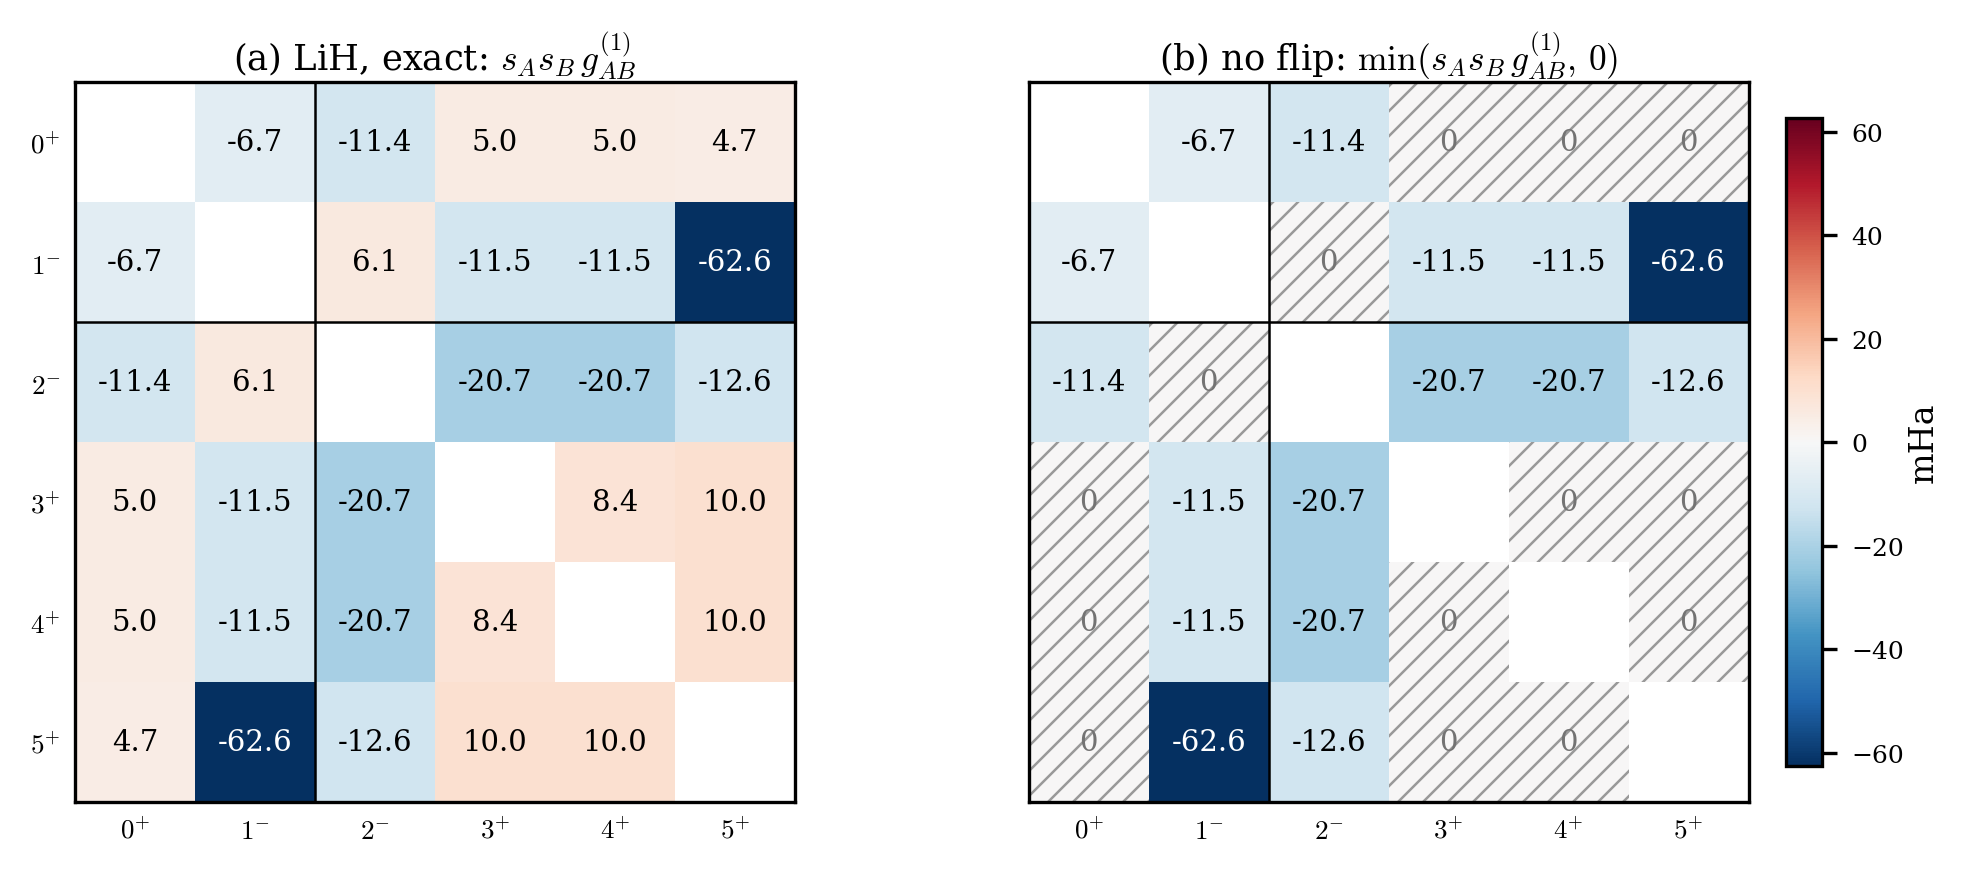
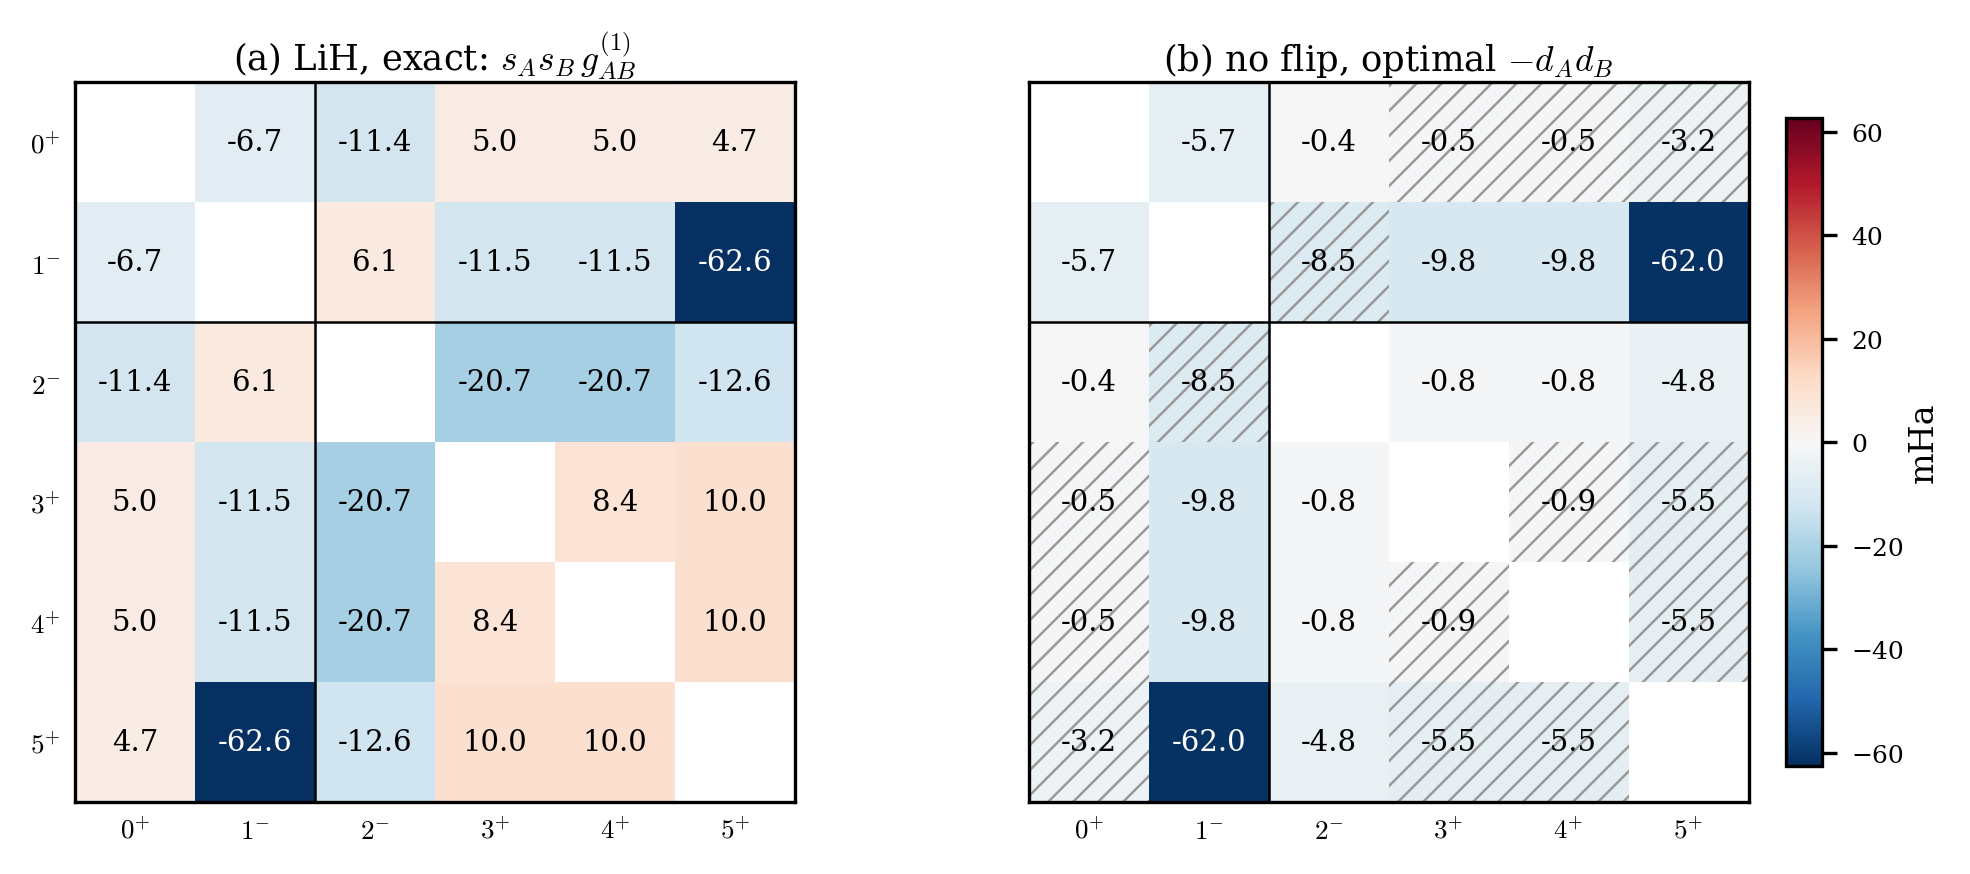
LiH no-flip couplings: panel (b) is the gadget's optimal -d_A d_B
The no-flip PCE gadget realises -d_A d_B (c_AB = 0), with d the rank-1 fit
of min(s_A s_B g1_AB, 0) used by lih_gadget_routes.py / MolecularDOCI.ipynb
(fit_drive, use_c=False, seed 42, |d_A| <= D_MAX). Checked against the
effective hopping of the simulated gadget (agreement 1e-5 Ha at gamma = 100).
d rescaled by 1/sqrt 2 so that -d_A d_B is in the g1 = K/2 convention of (a).

diff --git a/plot_lih_noflip_couplings.py b/plot_lih_noflip_couplings.py
@@ -3,14 +3,17 @@ Fig. (LiH, no flip): hopping g1 of H_DOCI, exact vs the effective one of the
 stoquastic-truncation ("no flip") route of lih_gadget_routes.py.
 
   (a) exact      g~1_AB = s_A s_B g1_AB   in the max-cut gauge s (best_sign_gauge)
-  (b) no flip    min(g~1_AB, 0): the frustrated edges that stay positive are dropped
+  (b) no flip    -d_A d_B, the hopping the gadget realises (PCE, c_AB = 0): d is
+                 the optimal rank-1 fit of the truncated target min(g~1_AB, 0)
+                 (frustrated, still positive edges dropped; hatched), with the
+                 same fit as the route (fit_drive, |d_A| <= D_MAX, seed 42)
 
 The gauge is a change of orbital phases (same spectrum), so (a) is the exact
-hopping in the basis the gadget sees; (b) differs from it only on the dropped
-edges (hatched). Same convention as plot_lih_couplings.py: g1 = K/2 = 1/2 (ab|ab)
-(shown in mHa)
-[src/molecular_doci.py stores K], canonical RHF orbitals 0, 1, ... by increasing
-energy; tick labels carry the gauge sign s_A. One colour scale for both panels.
+hopping in the basis the gadget sees. Same convention as plot_lih_couplings.py:
+g1 = K/2 = 1/2 (ab|ab) in mHa [src/molecular_doci.py stores K, and the fit there
+gives -d d^T ~ K; here d is rescaled by 1/sqrt 2 so that -d_A d_B ~ K/2].
+Canonical RHF orbitals 0, 1, ... by increasing energy; tick labels carry the
+gauge sign s_A. One colour scale for both panels.
 
 Usage:
     python plot_lih_noflip_couplings.py [--basis sto-6g] [--R 1.5949] [--width 7.0]
@@ -25,6 +28,8 @@ import matplotlib.pyplot as plt  # noqa: E402
 import numpy as np  # noqa: E402
 from matplotlib.colors import Normalize  # noqa: E402
 
+from lih_gadget_routes import D_MAX  # noqa: E402
+from src.gadget import fit_drive  # noqa: E402
 from src.molecular_doci import best_sign_gauge, doci_couplings, lih  # noqa: E402
 
 p = argparse.ArgumentParser()
@@ -52,11 +57,14 @@ plt.rcParams.update(
 c = doci_couplings(lih(args.R), basis=args.basis, max_pairs=10)  # no frozen core
 n = c["n_orb"]
 s, gg, frustration = best_sign_gauge(c["g1"])
+g_trunc = np.minimum(gg, 0.0)  # stoquastic truncation (project convention, = K)
+drive = fit_drive(g_trunc, n_restarts=50, use_c=False, seed=42, d_max=D_MAX)
+d = drive.d / np.sqrt(2)  # paper convention: -d_A d_B ~ K/2
 g_exact = 0.5e3 * gg  # paper convention g1 = K/2, in mHa
-g_noflip = np.minimum(g_exact, 0.0)
+g_gadget = -1e3 * np.outer(d, d)  # c_AB = 0: alpha = 1
 dropped = g_exact > 0
 iu = np.triu_indices(n, 1)
-for M in (g_exact, g_noflip):
+for M in (g_exact, g_gadget):
     np.fill_diagonal(M, np.nan)
 
 n_occ = int(np.sum(c["mf"].mo_occ > 0)) - c["n_core"]
@@ -64,6 +72,10 @@ labels = [rf"${a}^{{{'+' if s[a] > 0 else '-'}}}$" for a in range(n)]
 print(f"LiH {args.basis}, R={args.R} A: {n} orbitals, gauge s = {s}")
 print(f"dropped {int(dropped[iu].sum())} of {len(iu[0])} edges, "
       f"frustration (dropped |g| weight) = {frustration:.3f}")
+res = g_gadget[iu] - np.minimum(g_exact, 0)[iu]
+print("d_A (paper convention) =", np.round(d, 4))
+print(f"rank-1 fit vs truncated target: max |diff| = {np.abs(res).max():.2f} mHa, "
+      f"rel. Frobenius = {np.linalg.norm(res) / np.linalg.norm(np.minimum(g_exact, 0)[iu]):.3f}")
 
 # ------------------------------------------------------------------ plot
 vmax = np.nanmax(np.abs(g_exact))
@@ -73,7 +85,7 @@ fig, axes = plt.subplots(1, 2, figsize=(args.width, 0.4 * args.width),
                          constrained_layout=True)
 panels = (
     (g_exact, r"(a) LiH, exact: $s_As_B\,g^{(1)}_{AB}$"),
-    (g_noflip, r"(b) no flip: $\min(s_As_B\,g^{(1)}_{AB},\,0)$"),
+    (g_gadget, r"(b) no flip, optimal $-d_A d_B$"),
 )
 for k, (M, title) in enumerate(panels):
     ax = axes[k]
@@ -84,13 +96,11 @@ for k, (M, title) in enumerate(panels):
                 continue
             r, g, b, _ = cmap(norm(M[i, j]))
             col = "k" if 0.299 * r + 0.587 * g + 0.114 * b > 0.5 else "w"
-            if k == 1 and dropped[i, j]:  # dropped edge: hatched cell, grey zero
+            if k == 1 and dropped[i, j]:  # dropped edge (fit target 0): hatched
                 ax.add_patch(plt.Rectangle((j - 0.5, i - 0.5), 1, 1, fill=False,
                                            hatch="////", ec="0.6", lw=0))
-                ax.text(j, i, "0", ha="center", va="center", fontsize=7, color="0.45")
-            else:
-                ax.text(j, i, f"{M[i, j]:.1f}", ha="center", va="center",
-                        fontsize=7, color=col)
+            ax.text(j, i, f"{M[i, j]:.1f}", ha="center", va="center",
+                    fontsize=7, color=col)
     ax.set_xticks(range(n), labels)
     ax.set_yticks(range(n), labels if k == 0 else [])
     ax.tick_params(length=0)
